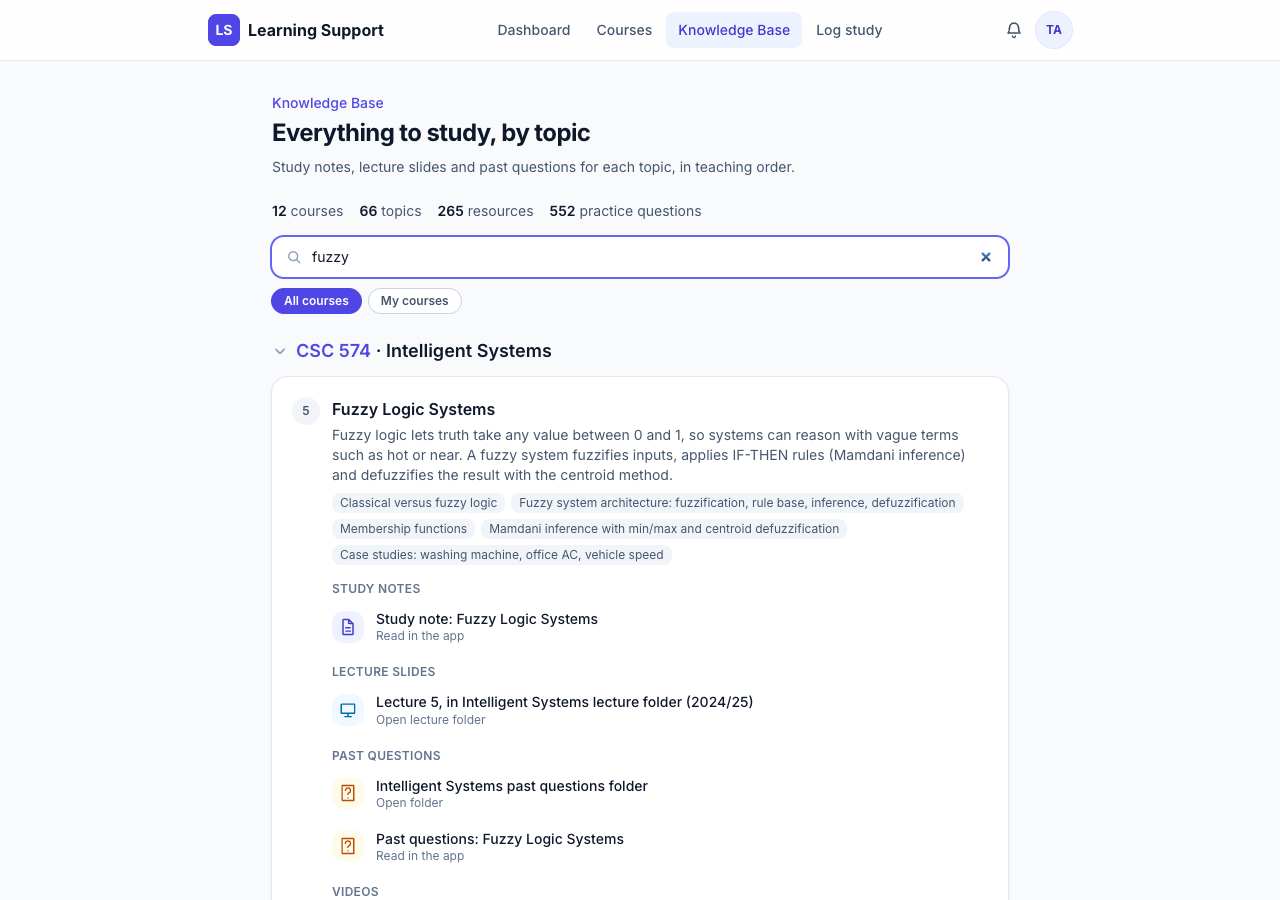
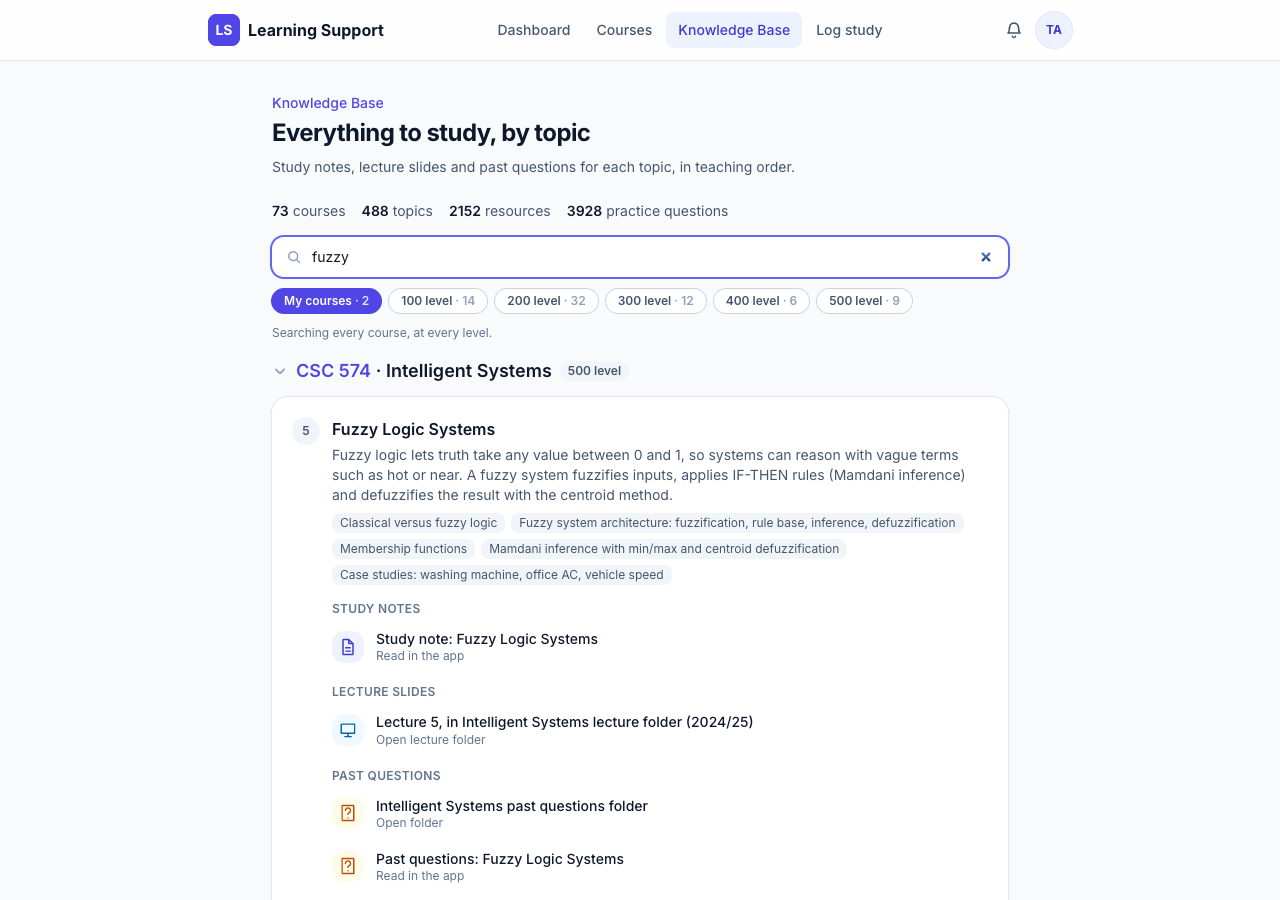
Retake KB, courses and bell screenshots with 73 courses; fit bell panel on phones; rerun NFR2 timing

diff --git a/web/src/components/NotificationBell.tsx b/web/src/components/NotificationBell.tsx
@@ -97,7 +97,7 @@ export function NotificationBell() {
       </button>
 
       {panelOpen && (
-        <div className="absolute right-0 z-20 mt-2 w-[min(22rem,calc(100vw-2rem))] rounded-2xl bg-white p-2 shadow-lg ring-1 ring-slate-200" data-testid="notification-panel">
+        <div className="fixed inset-x-4 top-14 z-20 rounded-2xl sm:absolute sm:inset-x-auto sm:right-0 sm:top-auto sm:mt-2 sm:w-[22rem] bg-white p-2 shadow-lg ring-1 ring-slate-200" data-testid="notification-panel">
           <div className="flex items-center justify-between px-3 py-2">
             <p className="text-sm font-semibold">Notifications</p>
             {unread.length > 0 && (

diff --git a/scripts/phase7_check.py b/scripts/phase7_check.py
@@ -319,7 +319,10 @@ def fr6(browser, shot: Shots) -> None:
     expect(page.get_by_test_id("notification-bell")).to_be_visible()
     page.get_by_test_id("notification-bell").click()
     overflow = page.evaluate("document.documentElement.scrollWidth > window.innerWidth")
-    check("phone width: bell stays visible and its list fits", page.get_by_test_id("notification-panel").is_visible() and not overflow)
+    box = page.get_by_test_id("notification-panel").bounding_box()
+    inside = box is not None and box["x"] >= 0 and box["x"] + box["width"] <= PHONE["width"]
+    check("phone width: bell stays visible and its list fits", page.get_by_test_id("notification-panel").is_visible() and not overflow and inside,
+          f"panel x={box and round(box['x'])}, width={box and round(box['width'])}")
     shot(page, "fr6-06-phone-bell.png")
     page.close()
 

diff --git a/docs/results/performance.md b/docs/results/performance.md
@@ -1,13 +1,13 @@
 # Response times (NFR2)
 
-Measured 2026-10-27 07:41 with `python scripts/timing.py --runs 20`, on the development laptop against the hosted Supabase project, with the Vite dev server and the ML service running locally. Times are in seconds. A case passes when its 95th percentile is within the target.
+Measured 2026-11-10 13:36 with `python scripts/timing.py --runs 20`, on the development laptop against the hosted Supabase project, with the Vite dev server and the ML service running locally. Times are in seconds. A case passes when its 95th percentile is within the target.
 
 | Operation | Runs | Median | p95 | Slowest | Fastest | Target | Result |
 | --- | --- | --- | --- | --- | --- | --- | --- |
-| Quiz submit: Submit pressed → results on screen (browser) | 20 | 0.33 | 0.35 | 0.83 | 0.32 | ≤ 2.0 | Pass |
-| Quiz submit: submit_quiz call only (API) | 20 | 0.18 | 0.21 | 0.22 | 0.17 | ≤ 1.0 | Pass |
-| Dashboard load: page opened → recommendations and chart shown (browser) | 20 | 0.84 | 1.36 | 1.39 | 0.83 | ≤ 3.0 | Pass |
-| Recommendation update: POST /recommend (runs in the background) | 20 | 2.73 | 2.97 | 3.60 | 2.68 | ≤ 5.0 | Pass |
+| Quiz submit: Submit pressed → results on screen (browser) | 20 | 0.32 | 0.84 | 0.84 | 0.22 | ≤ 2.0 | Pass |
+| Quiz submit: submit_quiz call only (API) | 20 | 0.19 | 0.21 | 0.21 | 0.17 | ≤ 1.0 | Pass |
+| Dashboard load: page opened → recommendations and chart shown (browser) | 20 | 1.11 | 1.34 | 1.36 | 0.84 | ≤ 3.0 | Pass |
+| Recommendation update: POST /recommend (runs in the background) | 20 | 4.20 | 4.40 | 5.32 | 3.98 | ≤ 5.0 | Pass |
 
 Targets: a quiz result within 2 s of pressing Submit and a dashboard within 3 s keep the student's flow uninterrupted at single-institution usage. Recommendation updates run in the background after a quiz or a study log (the app does not wait for them), so their target is looser.
 

diff --git a/docs/test-cases.md b/docs/test-cases.md
@@ -305,10 +305,10 @@ Notes
 **Actual:** 4 of 4 checks passed. **Result: Pass**
 
 ```
-    PASS  quiz_submit_api: median 0.18 s, p95 0.21 s, target 1.0 s (20 runs, 2026-10-27 07:41)
-    PASS  quiz_submit_ui: median 0.33 s, p95 0.35 s, target 2.0 s (20 runs, 2026-10-27 07:41)
-    PASS  dashboard_load_ui: median 0.84 s, p95 1.36 s, target 3.0 s (20 runs, 2026-10-27 07:41)
-    PASS  recommend_api: median 2.73 s, p95 2.97 s, target 5.0 s (20 runs, 2026-10-27 07:41)
+    PASS  quiz_submit_api: median 0.19 s, p95 0.21 s, target 1.0 s (20 runs, 2026-11-10 13:36)
+    PASS  quiz_submit_ui: median 0.32 s, p95 0.84 s, target 2.0 s (20 runs, 2026-11-10 13:36)
+    PASS  dashboard_load_ui: median 1.11 s, p95 1.34 s, target 3.0 s (20 runs, 2026-11-10 13:36)
+    PASS  recommend_api: median 4.20 s, p95 4.40 s, target 5.0 s (20 runs, 2026-11-10 13:36)
 ```
 
 ### TC-14 · NFR3 · Security: row-level security
